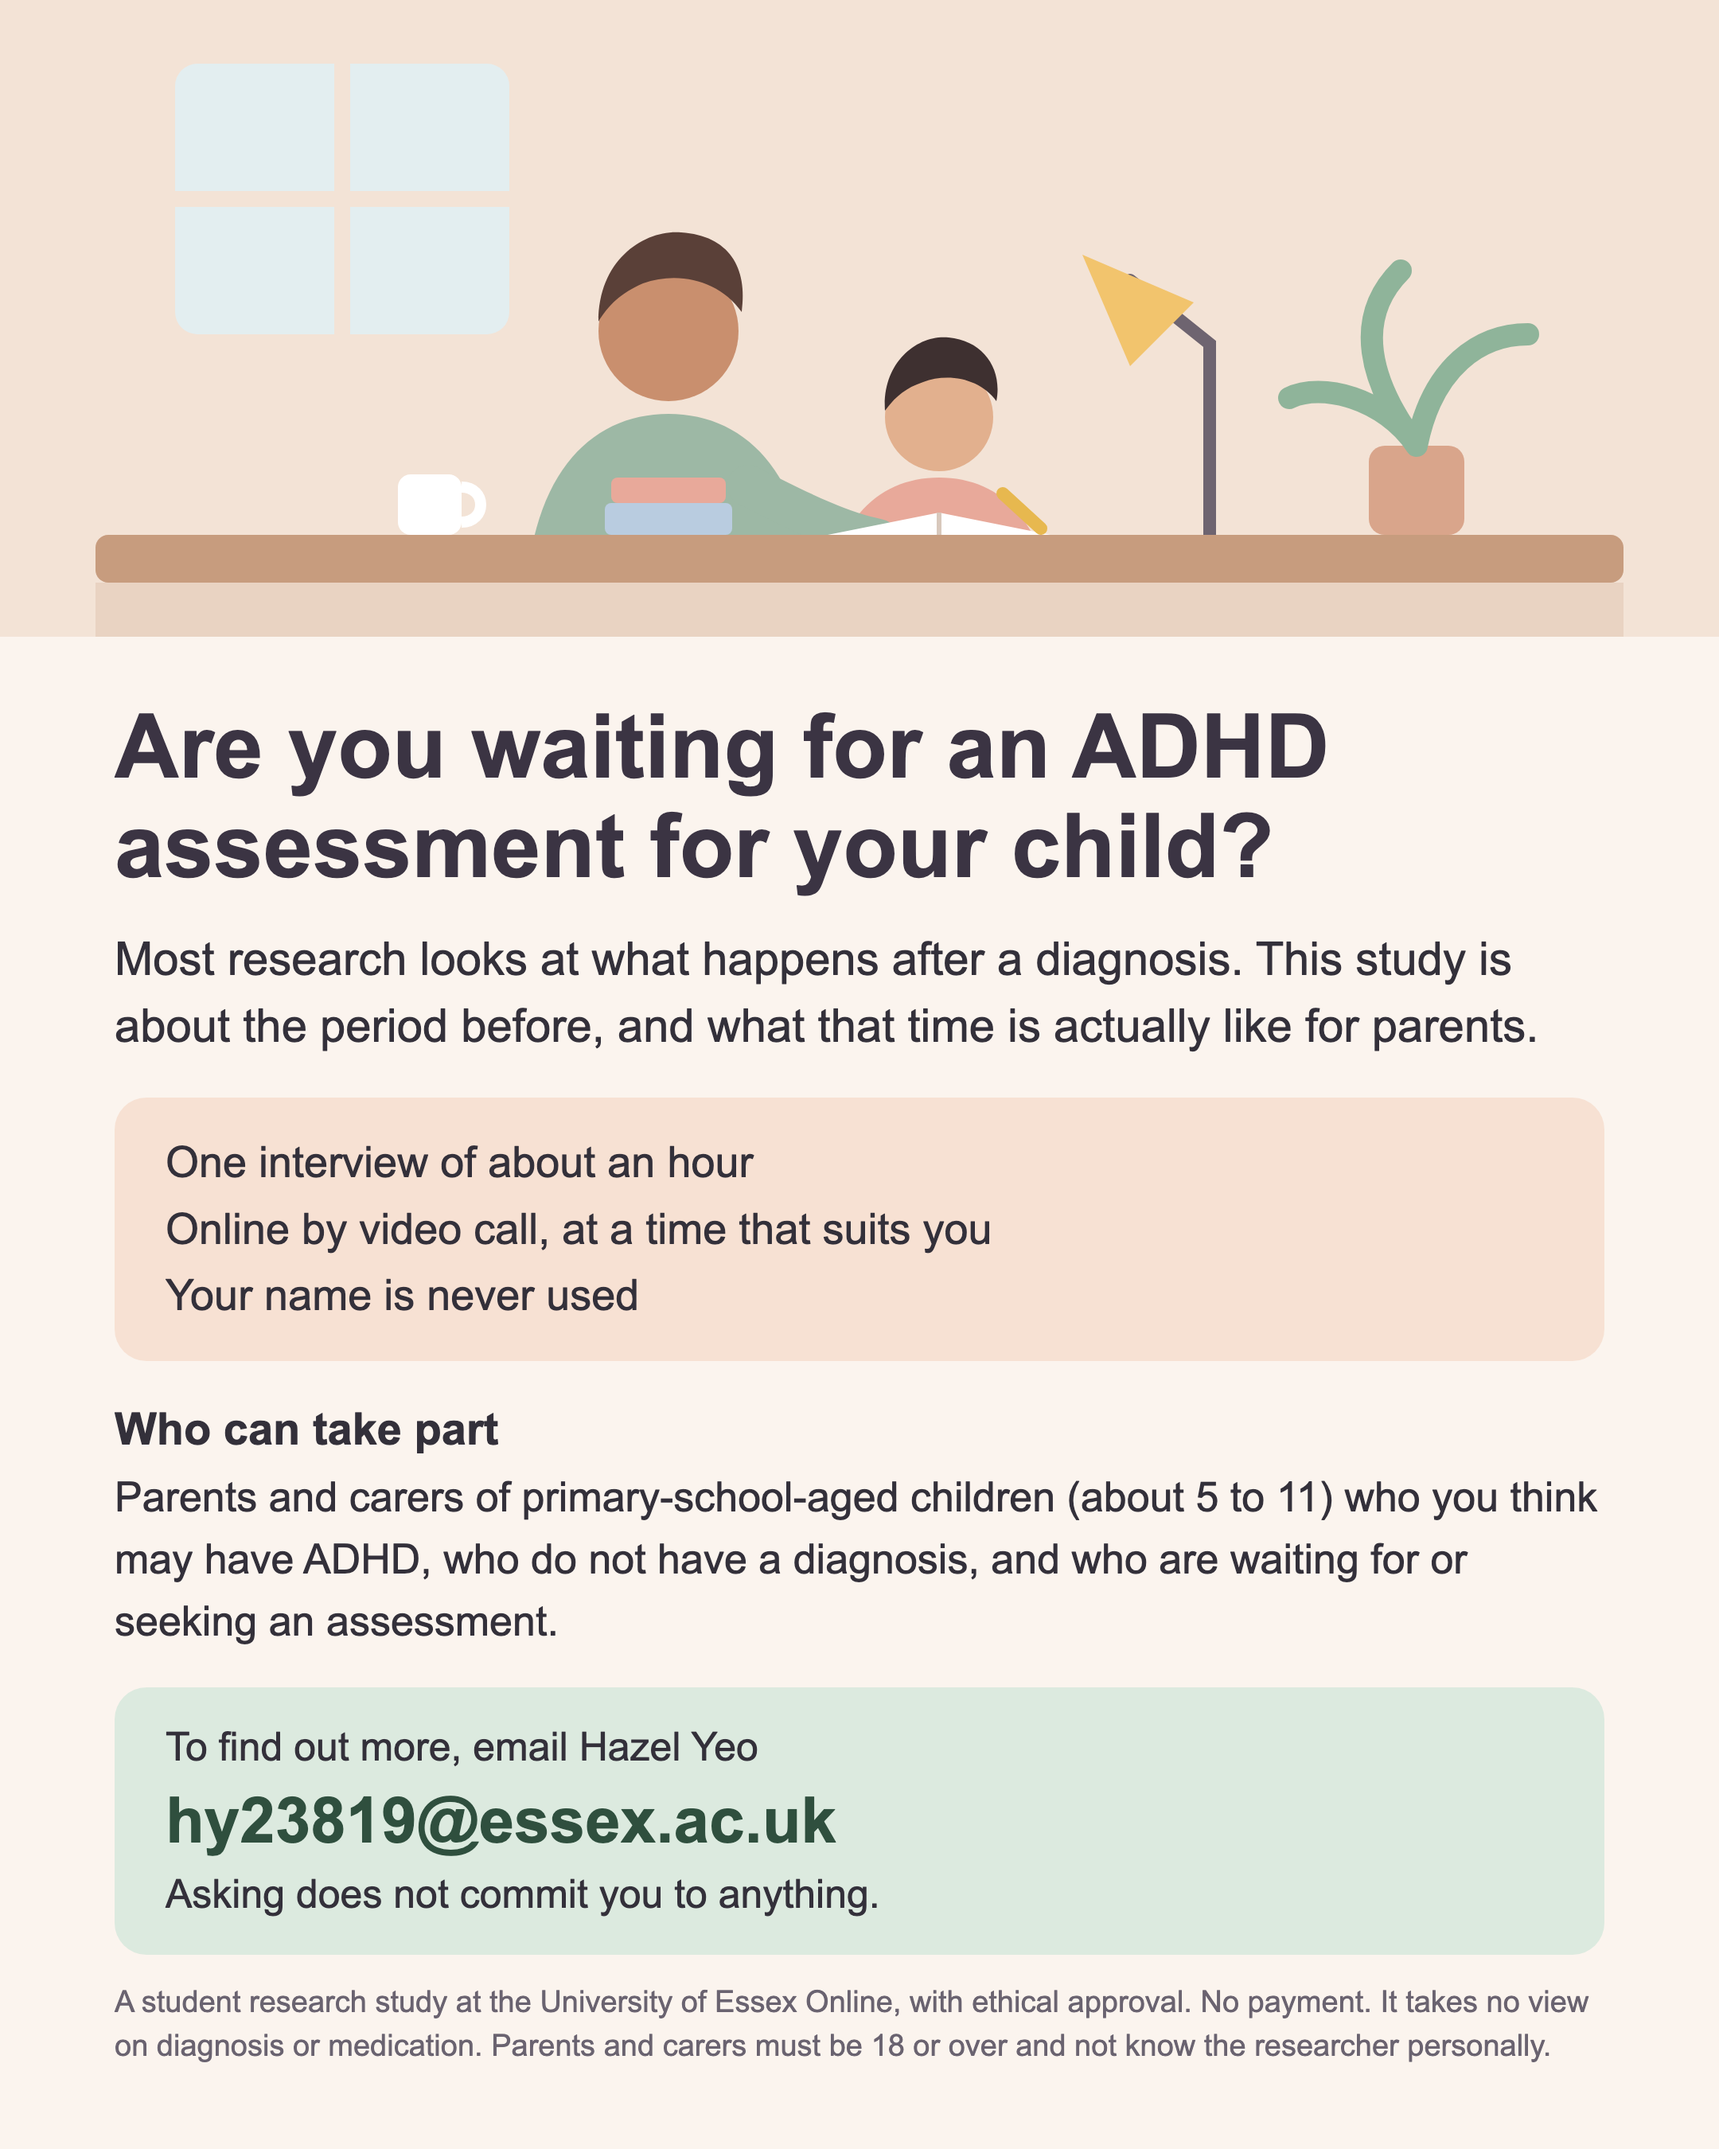
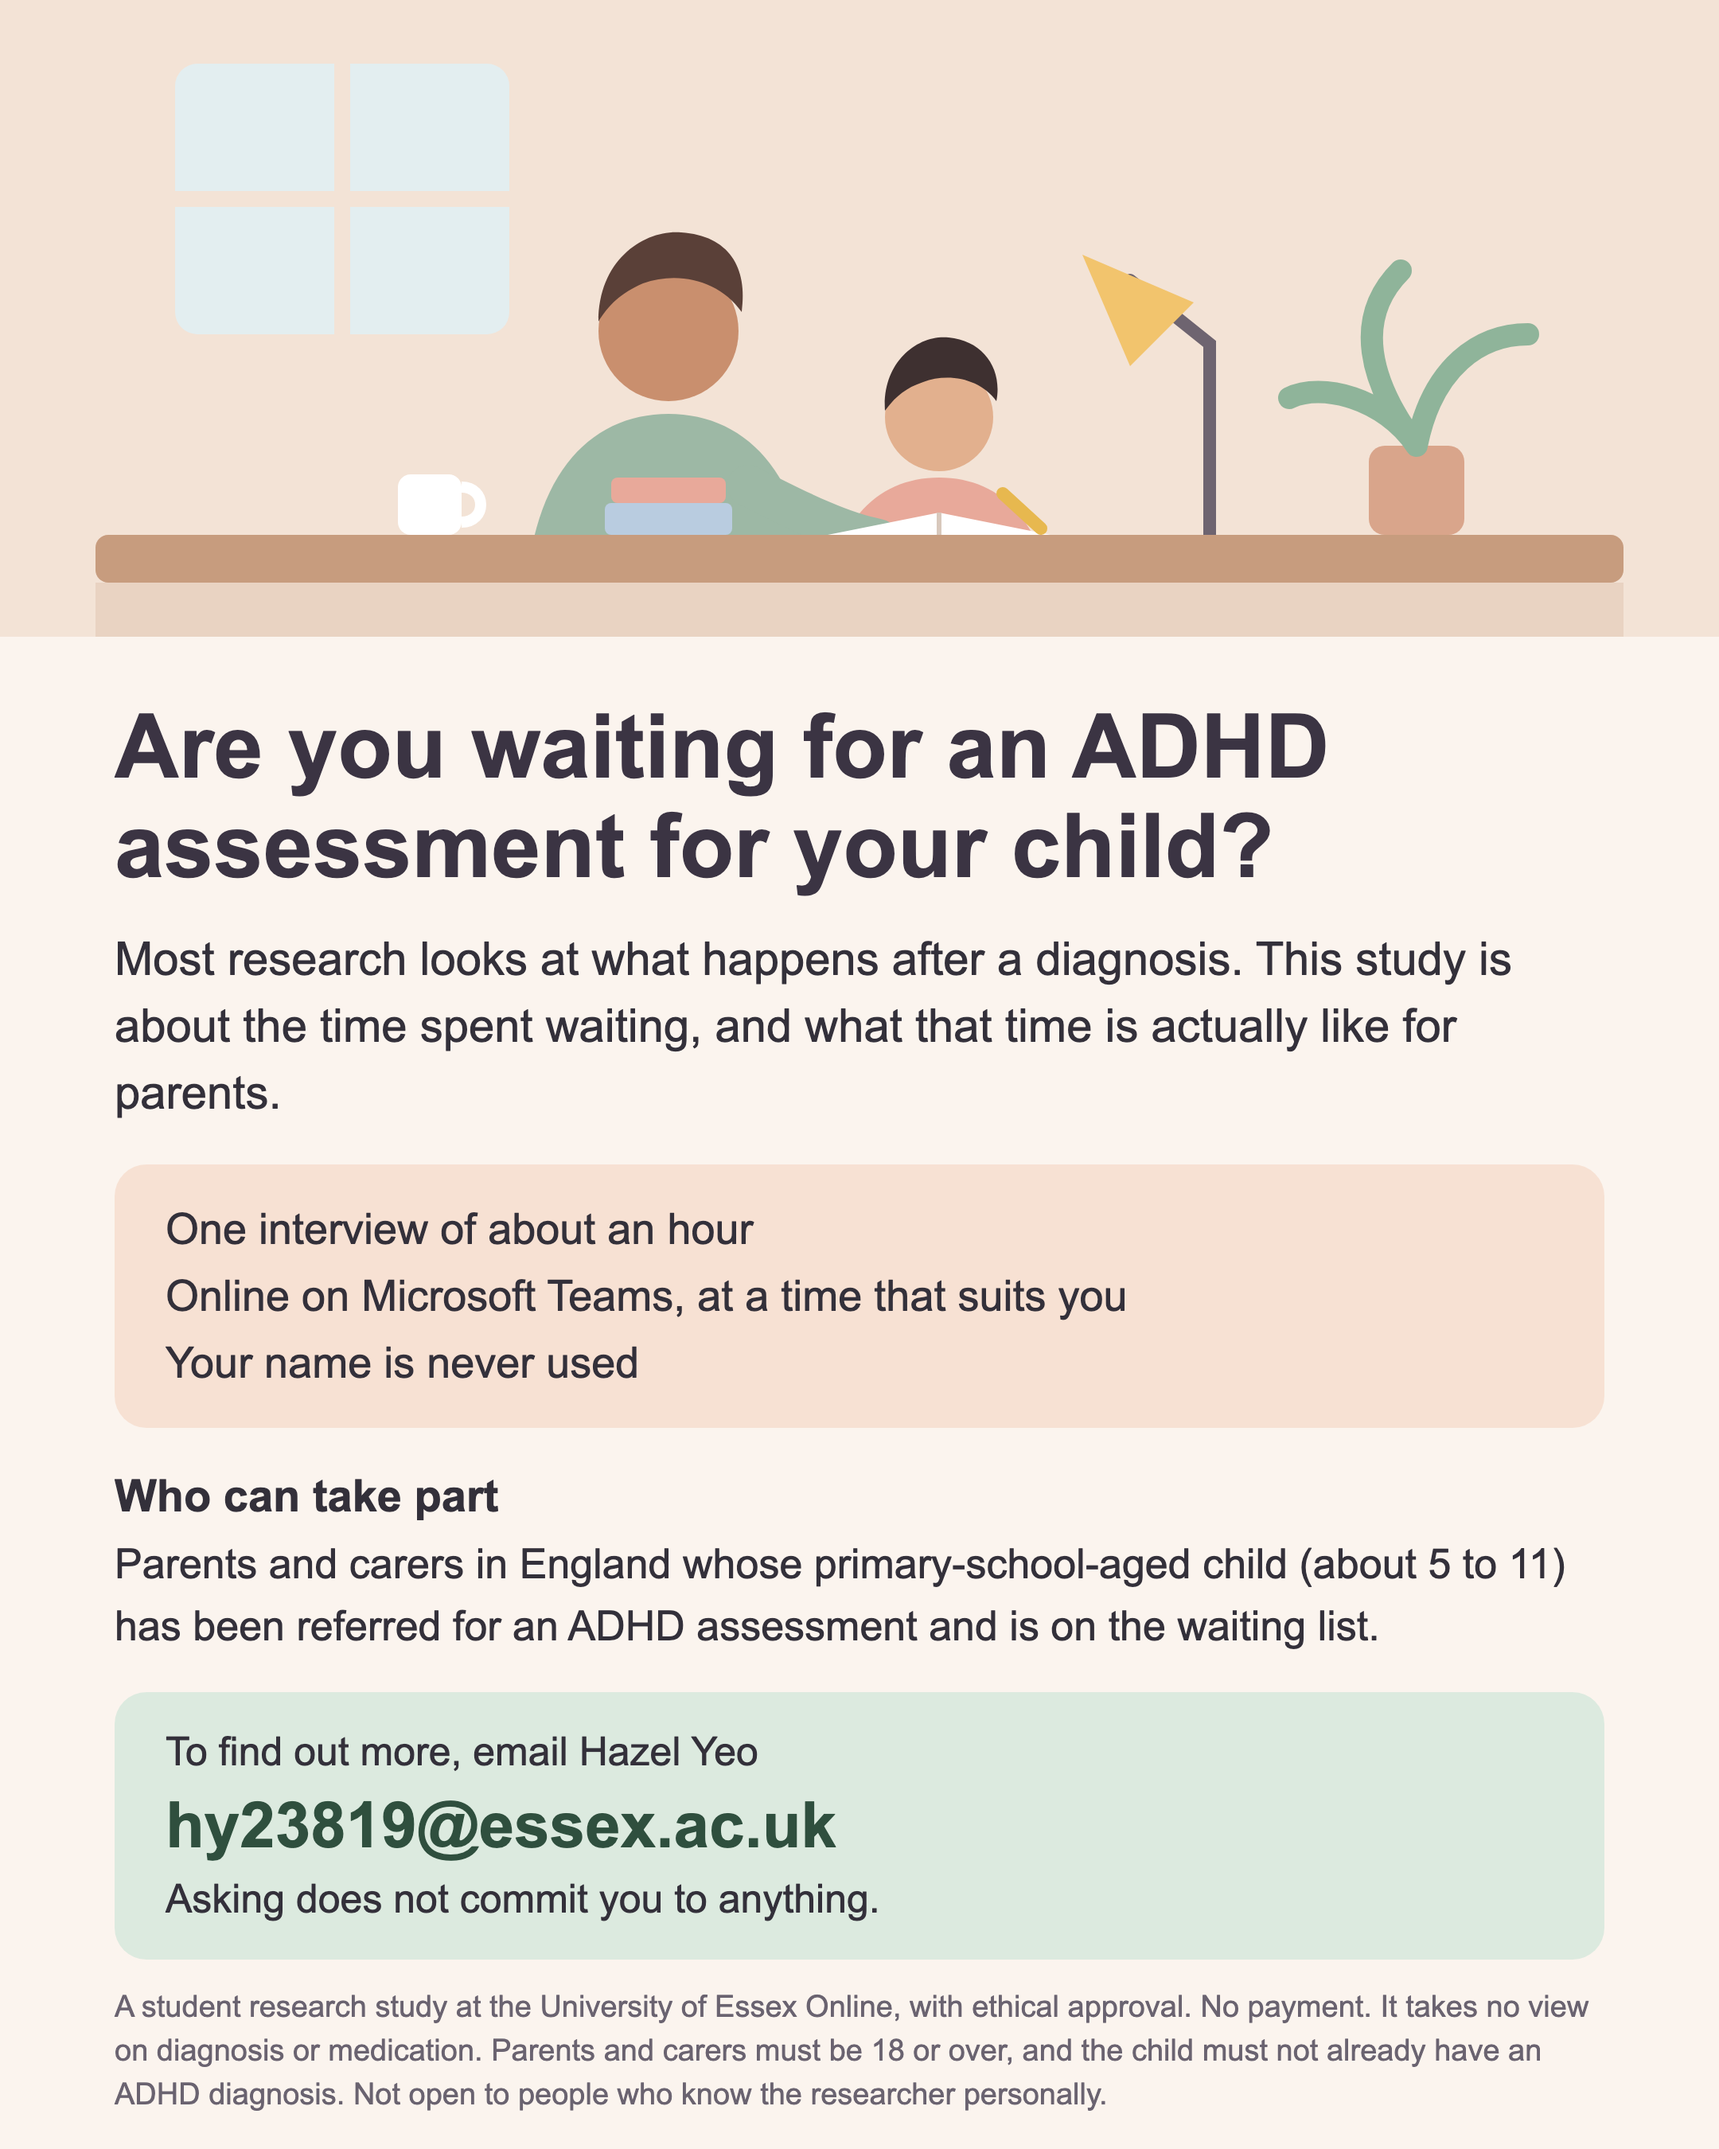
Match wording to approved advert (England, referred, on waiting list, Teams)

Changed region(s): [[0.062, 0.4667, 0.9306, 0.9956]]

diff --git a/index.html b/index.html
@@ -31,20 +31,20 @@ h2{font-size:20px;margin-top:24px}
 <div class="hero"><img src="illustration.svg" alt="A parent and child doing homework together at a table"></div>
 <main>
 <h1>Are you waiting for an ADHD assessment for your child?</h1>
-<p class="sub">Most research looks at what happens after a diagnosis. This study is about the period before, and what that time is actually like for parents.</p>
+<p class="sub">Most research looks at what happens after a diagnosis. This study is about the time spent waiting, and what that time is actually like for parents.</p>
 <ul class="facts">
 <li>One interview of about an hour</li>
-<li>Online by video call, at a time that suits you</li>
+<li>Online on Microsoft Teams, at a time that suits you</li>
 <li>Your name is never used</li>
 </ul>
 <h2>Who can take part</h2>
-<p class="who">Parents and carers of primary-school-aged children (about 5 to 11) who you think may have ADHD, who do not have a diagnosis, and who are waiting for or seeking an assessment.</p>
+<p class="who">Parents and carers in England whose primary-school-aged child (about 5 to 11) has been referred for an ADHD assessment and is on the waiting list.</p>
 <div class="cta">
 <p>To find out more, email Hazel Yeo and you will be sent an information sheet. Asking does not commit you to anything.</p>
 <a class="btn" href="mailto:hy23819@essex.ac.uk?subject=ADHD%20assessment%20study&amp;body=Hi%20Hazel%2C%20I%27m%20interested%20in%20your%20study.%20Please%20could%20you%20send%20me%20the%20information%20sheet%3F">Email Hazel</a>
 <p>Or write to: <span class="email">hy23819@essex.ac.uk</span></p>
 </div>
-<p class="foot">A student research study at the University of Essex Online, with ethical approval. There is no payment. It is not a test, and it takes no view on diagnosis or medication. Parents and carers must be 18 or over and not know the researcher personally. This page does not collect any information about you.</p>
+<p class="foot">A student research study at the University of Essex Online, with ethical approval. There is no payment. It is not a test, and it takes no view on diagnosis or medication. Parents and carers must be 18 or over, and the child must not already have an ADHD diagnosis. Not open to people who know the researcher personally. This page does not collect any information about you.</p>
 </main>
 </body>
 </html>
